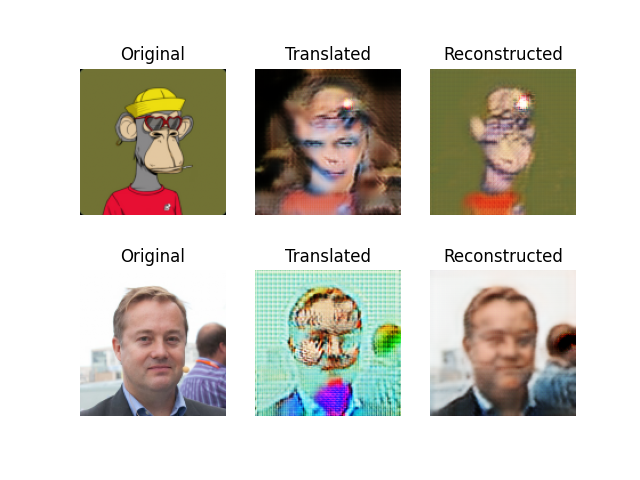
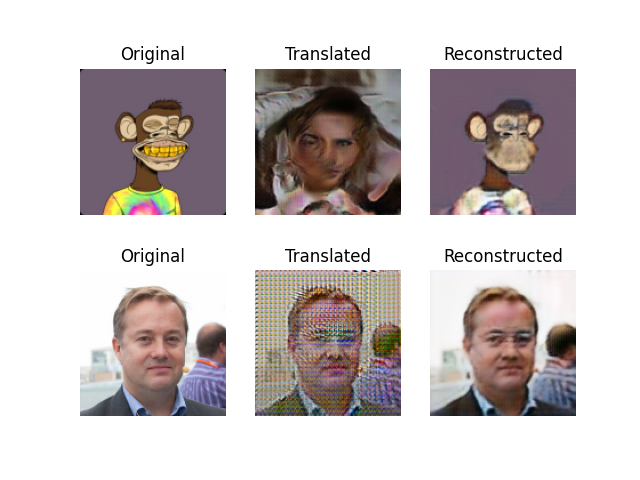
updated upsampling to avoid checkerboard artifact

diff --git a/ganutils.py b/ganutils.py
@@ -136,6 +136,34 @@ def upsample(
         x = activation(x)
     return x
 
+# https://github.com/junyanz/pytorch-CycleGAN-and-pix2pix/issues/190
+# avoid checkboard
+def upsample_1(
+    x,
+    filters,
+    activation,
+    kernel_size=(3, 3),
+    strides=(2, 2),
+    padding="same",
+    kernel_initializer=kernel_init,
+    gamma_initializer=gamma_init,
+    use_bias=False,
+):
+
+    x = layers.UpSampling2D(size=strides,interpolation="nearest")(x)
+    x = ReflectionPadding2D(padding=(3, 3))(x)
+    x = layers.Conv2D(
+        filters,
+        kernel_size,
+        padding=padding,
+        kernel_initializer=kernel_initializer,
+        use_bias=use_bias)(x)
+    x = tfa.layers.InstanceNormalization(gamma_initializer=gamma_initializer)(x)
+    
+    if activation:
+        x = activation(x)
+    return x
+
 
 """
 ## Build the generators

diff --git a/cyclegan1.py b/cyclegan1.py
@@ -66,9 +66,9 @@ class CycleGAN():
         self.g_AB = self.build_generator(name="g_AB")
         self.g_BA = self.build_generator(name="g_BA")
 
-        print('loading weights...')
         w_list = ['saved_model/dA.h5','saved_model/dB.h5','saved_model/AB.h5','saved_model/BA.h5']
         if all([os.path.exists(x) for x in w_list]):
+            print('found weights, loading them...')
             self.d_A.load_weights("saved_model/dA.h5")
             self.d_B.load_weights("saved_model/dB.h5")
             self.g_AB.load_weights("saved_model/AB.h5")

diff --git a/inference.py b/inference.py
@@ -18,6 +18,7 @@ if __name__ == "__main__":
 
 
     imgs_A = gan.data_loader.load_data(domain="A", batch_size=1, is_testing=True)
+    #imgs_B = gan.data_loader.load_data(domain="B", batch_size=1, is_testing=False)#True)
     imgs_B = gan.data_loader.load_img(human_path)
 
     fake_B = gan.g_AB.predict(imgs_A)

diff --git a/README.md b/README.md
@@ -20,6 +20,11 @@ human face - celeba
 
 https://github.com/keras-team/keras-io/blob/master/examples/generative/dcgan_overriding_train_step.py#L22
 
+above resolution too small, human-to-ape have artifacts, likely due to jpg compression & resizing.
+attempting to use the below png with higher resolution.
+https://github.com/mazzzystar/make-CelebA-HQ/blob/master/README.md
+
+
 
 
 @Jason
